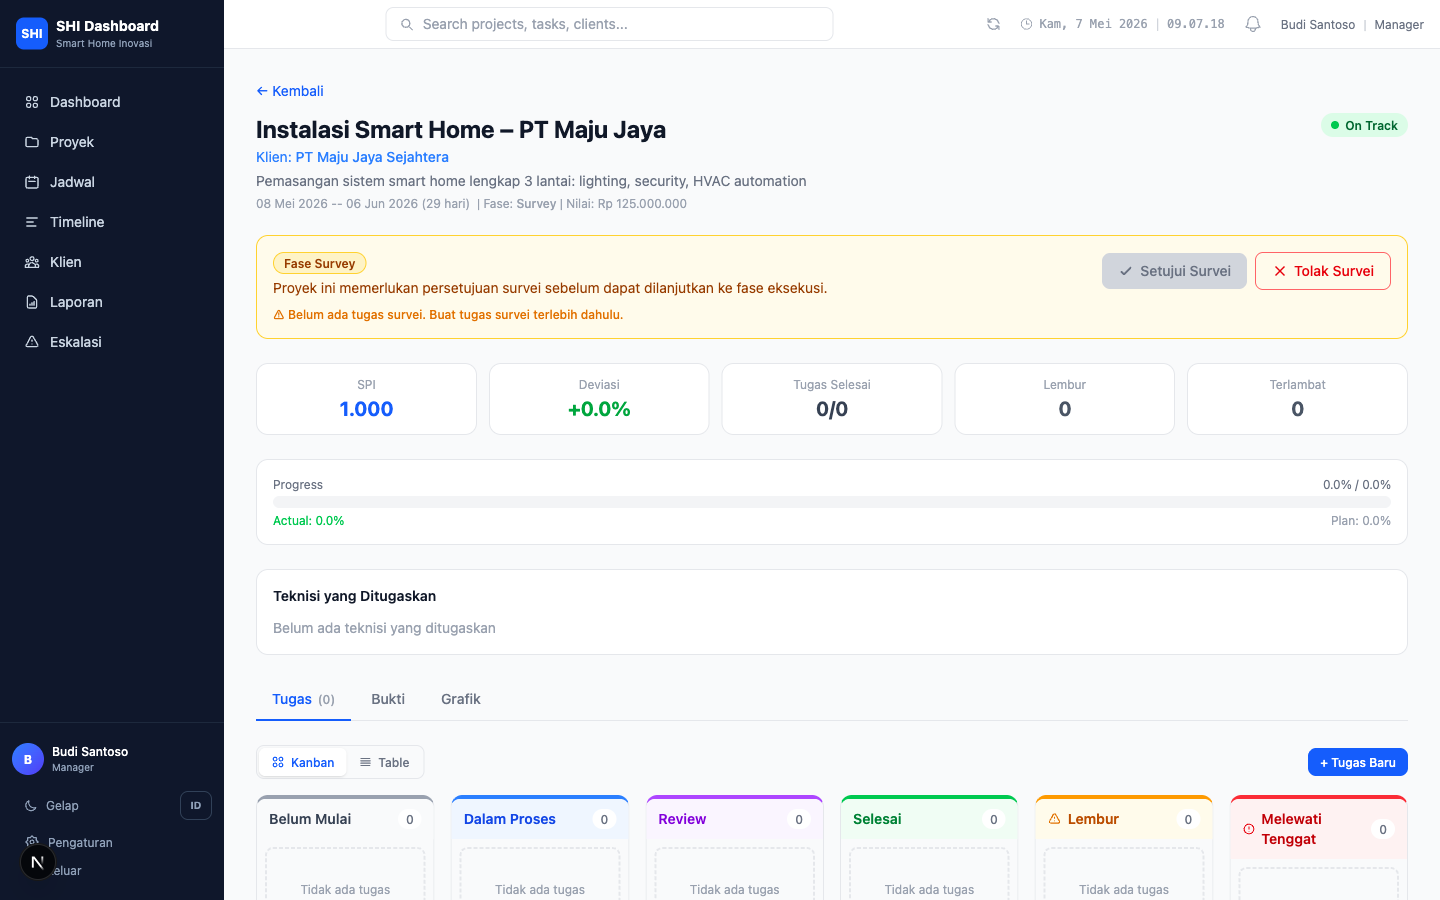
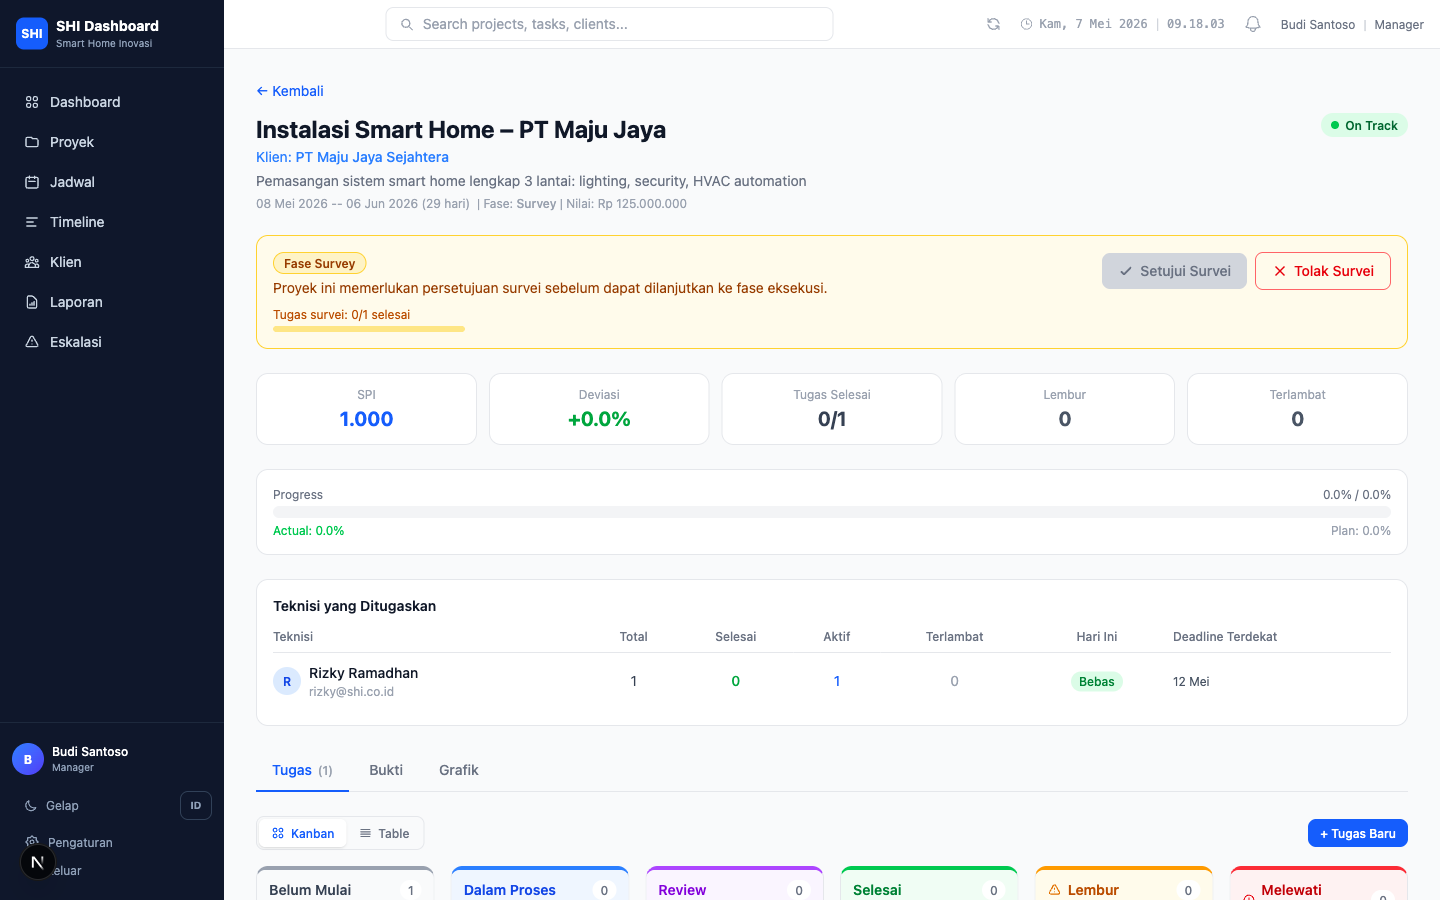
refactor(alur-sistem): expand screenshots to before/after pairs per step
- Add 00-login.png as entry screenshot
- Split single-shot steps into before (input form) + after (result) pairs:
  01a/01b client, 02a/02b project, 04a/04b survey tasks
- Update run_flow.js to match revised screenshot sequence
- Minor settings.local.json allowlist update

diff --git a/alur-sistem/run_flow.js b/alur-sistem/run_flow.js
@@ -143,7 +143,15 @@ async function main() {
   const mPage = await mCtx.newPage();
   const tPage = await tCtx.newPage();
 
-  // Pre-auth both pages (silently — no screenshot for login).
+  // ── STEP 0 – Login page (capture form before auth) ─────────────────────
+  console.log('\n[0] Halaman login');
+  await mPage.goto(`${BASE}/login`);
+  // Type credentials so the form is visible & filled in the screenshot
+  await mPage.locator('input[name="email"]').fill(MANAGER.email);
+  await mPage.locator('input[name="password"]').fill(MANAGER.password);
+  await ss(mPage, '00-login.png', 600);
+
+  // Now actually authenticate both contexts (no screenshots).
   console.log('\n[auth] Manager + Teknisi');
   const mToken = await login(mPage, MANAGER, '/dashboard');
   const tToken = await login(tPage, TECH, '/my-dashboard');
@@ -152,6 +160,23 @@ async function main() {
 
   // ── STEP 1 – Nambah client ─────────────────────────────────────────────
   console.log('\n[1] Nambah client');
+
+  // 1a — open the "Tambah Klien" popup, fill inputs, screenshot the form
+  await mPage.goto(`${BASE}/clients`);
+  await settle(mPage);
+  await mPage.getByRole('button', { name: /Tambah Klien/i }).first().click();
+  await mPage.waitForSelector('[role="dialog"]', { timeout: 5000 });
+  const cDlg = mPage.locator('[role="dialog"]');
+  await cDlg.locator('input[type="text"]').first().fill('PT Maju Jaya Sejahtera');
+  await cDlg.locator('input[type="email"]').fill('info@majujaya.co.id');
+  await cDlg.locator('input[placeholder*="62"]').fill('022-8812345');
+  await cDlg.locator('textarea').first().fill('Jl. Raya Cihanjuang No. 45, Bandung');
+  await ss(mPage, '01a-input-client.png', 600);
+
+  // close the popup (Escape) — actual creation goes via API for reliability
+  await mPage.keyboard.press('Escape');
+  await mPage.waitForTimeout(300);
+
   const client = await api('POST', '/api/clients', {
     name: 'PT Maju Jaya Sejahtera',
     address: 'Jl. Raya Cihanjuang No. 45, Bandung',
@@ -161,14 +186,32 @@ async function main() {
   }, mToken);
   console.log('  Client ID:', client.id);
 
-  await mPage.goto(`${BASE}/clients`);
-  await ss(mPage, '01-nambah-client.png', 800);
+  // 1b — list view with the new client row
+  await mPage.reload();
+  await ss(mPage, '01b-nambah-client.png', 800);
 
   // ── STEP 2 – Nambah proyek (fase survei) ───────────────────────────────
   console.log('\n[2] Nambah proyek (fase survei)');
   const startDate = new Date(); startDate.setDate(startDate.getDate() + 1);
   const endDate   = new Date(); endDate.setDate(endDate.getDate() + 30);
   const fmt = d => d.toISOString().split('T')[0];
+
+  // 2a — open "Proyek Baru" popup, fill inputs, screenshot the form
+  await mPage.goto(`${BASE}/projects`);
+  await settle(mPage);
+  await mPage.getByRole('button', { name: /Proyek Baru/i }).first().click();
+  await mPage.waitForSelector('[role="dialog"]', { timeout: 5000 });
+  const pDlg = mPage.locator('[role="dialog"]');
+  await pDlg.locator('input[name="name"]').fill('Instalasi Smart Home – PT Maju Jaya');
+  await pDlg.locator('select[name="client_id"]').selectOption({ label: 'PT Maju Jaya Sejahtera' });
+  await pDlg.locator('textarea[name="description"]').fill('Pemasangan sistem smart home lengkap 3 lantai: lighting, security, HVAC automation');
+  await pDlg.locator('input[name="start_date"]').fill(fmt(startDate));
+  await pDlg.locator('input[name="end_date"]').fill(fmt(endDate));
+  await pDlg.locator('input[name="project_value"]').fill('125000000');
+  await ss(mPage, '02a-input-proyek.png', 600);
+
+  await mPage.keyboard.press('Escape');
+  await mPage.waitForTimeout(300);
 
   const project = await api('POST', '/api/projects', {
     name: 'Instalasi Smart Home – PT Maju Jaya',
@@ -183,10 +226,13 @@ async function main() {
   }, mToken);
   console.log('  Project ID:', project.id);
 
-  await mPage.goto(`${BASE}/projects`);
-  await ss(mPage, '02-nambah-proyek.png', 800);
+  // 2b — list view with the new project
+  await mPage.reload();
+  await ss(mPage, '02b-nambah-proyek.png', 800);
 
   // ── STEP 3 – Harus survei + pilih teknisi ──────────────────────────────
+  // The "Teknisi yang Ditugaskan" widget aggregates from tasks-by-assignee,
+  // so we seed the very first survey task here to make the technician appear.
   console.log('\n[3] Survei phase + pilih teknisi');
   const users = await api('GET', '/api/users/technicians', null, mToken);
   const tech  = users.find(u => u.email === TECH.email);
@@ -196,13 +242,6 @@ async function main() {
     user_id: tech.id, role: 'technician',
   }, mToken);
 
-  // navigate, then a reload to pick up the freshly-saved assignment
-  await mPage.goto(`${BASE}/projects/${project.id}`);
-  await mPage.reload();
-  await ss(mPage, '03-pilih-teknisi.png', 1000);
-
-  // ── STEP 4 – Buat task detail survei ───────────────────────────────────
-  console.log('\n[4] Buat task survei');
   const surveyTasks = [
     'Survei kondisi bangunan & layout instalasi',
     'Identifikasi titik instalasi sensor & panel',
@@ -210,7 +249,38 @@ async function main() {
   ];
   const dueDate = new Date(); dueDate.setDate(dueDate.getDate() + 5);
   const tIds = [];
-  for (const name of surveyTasks) {
+
+  // Seed one task so widget displays the assigned technician
+  const firstSurveyTask = await api('POST', '/api/tasks', {
+    project_id: project.id,
+    name: surveyTasks[0],
+    description: `Detail survei: ${surveyTasks[0]}`,
+    assigned_to: tech.id,
+    status: 'to_do',
+    due_date: fmt(dueDate),
+    is_survey_task: true,
+  }, mToken);
+  tIds.push(firstSurveyTask.id);
+
+  await mPage.goto(`${BASE}/projects/${project.id}`);
+  await ss(mPage, '03-pilih-teknisi.png', 1000);
+
+  // ── STEP 4 – Buat task detail survei (sisanya) ─────────────────────────
+  console.log('\n[4] Buat sisa task survei');
+
+  // 4a — open "Tugas Baru" popup on project detail, fill inputs, screenshot
+  await mPage.getByRole('button', { name: /Tugas Baru/i }).first().click();
+  await mPage.waitForSelector('[role="dialog"]', { timeout: 5000 });
+  const tDlg = mPage.locator('[role="dialog"]');
+  await tDlg.locator('input[name="name"]').fill(surveyTasks[1]);
+  await tDlg.locator('textarea[name="description"]').fill(`Detail survei: ${surveyTasks[1]}`);
+  await tDlg.locator('input[name="due_date"]').fill(fmt(dueDate));
+  await ss(mPage, '04a-input-task-survei.png', 600);
+
+  await mPage.keyboard.press('Escape');
+  await mPage.waitForTimeout(300);
+
+  for (const name of surveyTasks.slice(1)) {
     const t = await api('POST', '/api/tasks', {
       project_id: project.id,
       name,
@@ -224,7 +294,7 @@ async function main() {
   }
 
   await mPage.reload();
-  await ss(mPage, '04-task-survei-dibuat.png', 1000);
+  await ss(mPage, '04b-task-survei-dibuat.png', 1000);
 
   // ── STEP 5 – Teknisi cek task real-time ────────────────────────────────
   console.log('\n[5] Teknisi cek task real-time');
